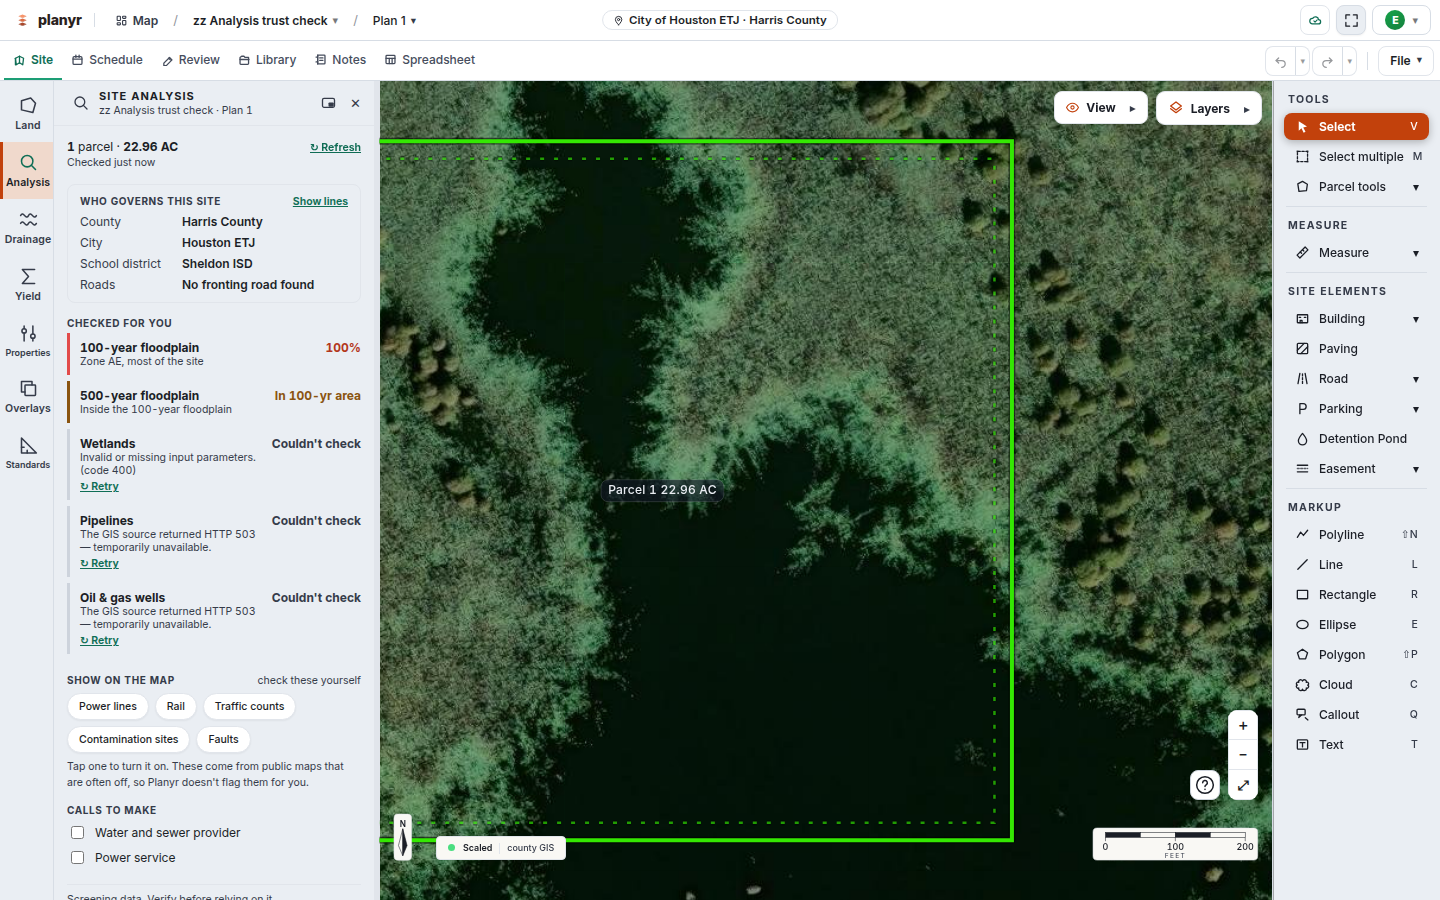
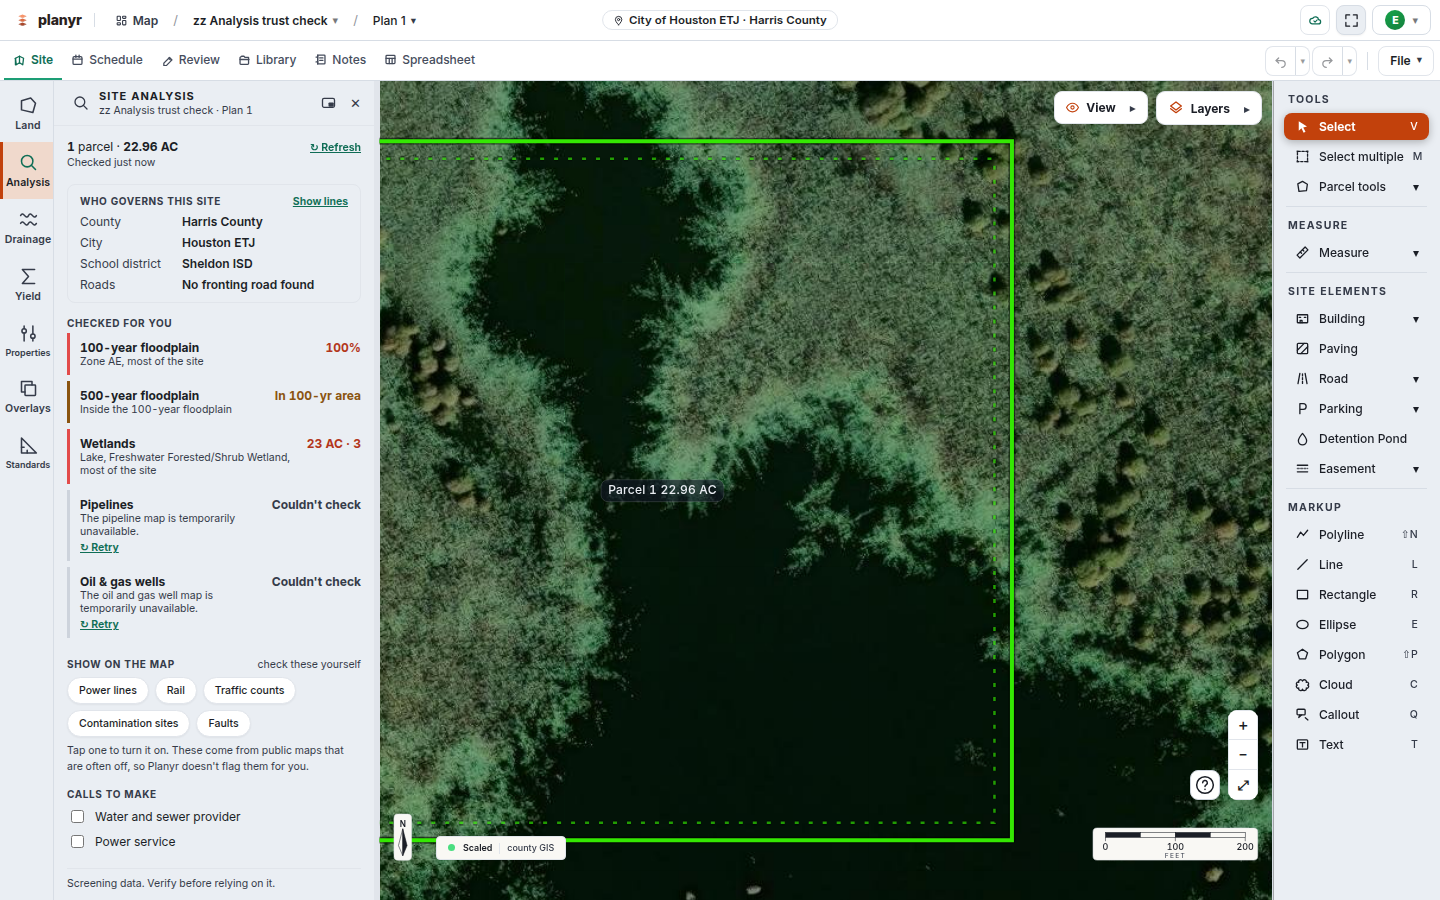
Record V1536736 passed on build 76c4f42 (B2117136)
Claude-Session: https://claude.ai/code/session_019RcnKfkFHLmhVwojQHxhfg

Changed region(s): [[0.0312, 0.4978, 0.25, 1.0], [0.1875, 0.56, 0.25, 0.5911], [0.1875, 0.4667, 0.25, 0.4978]]

diff --git a/ledger/verification/done/V1536736.md b/ledger/verification/done/V1536736.md
@@ -2,5 +2,5 @@
 
 Driven by `ui-audit/verify-site-analysis-signed-in.mjs` (throwaway Harris County plan at Sheldon Lake written to the test account and deleted again, verified).
 **Run 1 — build accbabc (the merge of PR #2032), 2026-10-05:** structure ✅ (sections in order, five Texas rows, no banner/badges/chips, one freshness line, footer exact, Harris County named); forced RRC outage → pipelines + wells `Couldn't check`, Retry recovered ✅; pill ↔ Layers panel both ways ✅. **❌ FOUND LIVE:** the wetlands row read `Couldn't check` — the real NWI layer answers HTTP 400 to `orderByFields=OBJECTID` (table-qualified joined layer), which every mocked test had accepted. The failure state worked exactly as designed (never None); the query was wrong. Fixed in the follow-up PR (unordered first read; ordered paging only when truncated; id field taken from the layer's own reply). Also found: the table refuses a hard delete until a row is in the trash — harness now trashes then deletes.
-**Run 2 — build of the fix:** pending (record the served build hash + each row's severity/figure).
+**Run 2 — build 76c4f42 (merge of PR #2033), 2026-10-05, chunk index-BOew3ojU.js read in the same call:** ✅ all checks passed on two consecutive runs. Real services, Sheldon Lake plan: flood100 red 100% (Zone AE, most of the site) · flood500 amber "In 100-yr area" · **wetlands red 23 AC · 3 (the fix — it resolves live)** · pipelines green None · wells amber 1 within ¼ mi (1 plugged). Forced RRC outage → pipelines + wells "Couldn't check" in plain words, FEMA + NWI unaffected, Retry recovered; pill ↔ Layers panel both ways; throwaway plan trashed, deleted and verified gone (local + cloud). One of the three runs happened to catch a real FEMA outage: both flood rows read "The FEMA flood map is temporarily unavailable. Couldn't check ↻ Retry" — never None — and the next run resolved them.
 - **Stopping rule:** closes when a run on a build carrying the fix shows all five rows resolved (no `Couldn't check` with the sources up), the forced-outage arm passes, and the throwaway plan is verified gone.
